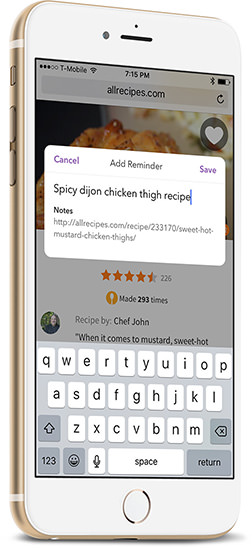
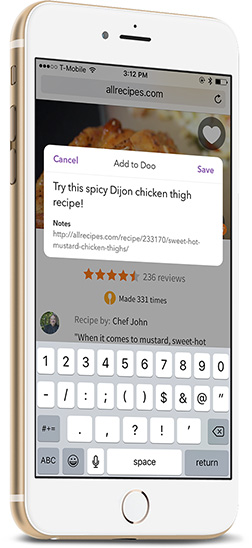
Updating images and copy

diff --git a/index.html b/index.html
@@ -55,8 +55,8 @@
 
     <section id="introduction">
       <div class="content-wrapper">
-        <h1 class="half-width main-heading has-illustration">A smart, simple app for reminders and todos.</h1>
-        <p class="half-width margin main-text">Doo helps you get things done by encouraging small, achievable reminders. Each reminder you create becomes a card. Swipe cards up to complete tasks and power through your todo list.</p>
+        <h1 class="half-width main-heading has-illustration">A smart, simple app for reminders and to&ndash;dos.</h1>
+        <p class="half-width margin main-text">Doo helps you get things done by encouraging small, achievable reminders. Each reminder you create becomes a card. Swipe cards away to mark them completed and power through your to-do list.</p>
 
         <img id="doo-hero" class="lazy-load hidden" src="../images/placeholder.jpg" data-src="../images/doo_hero.jpg" data-src-retina="../images/doo_hero@2x.jpg" alt="Main Doo interface"/>
 
@@ -66,7 +66,7 @@
 
         <div id="simple-by-design" class="half-width">
           <h3 class="detail-header">Simple by design</h3>
-          <p class="detail-description">Doo presents your reminders as a stack of cards, making it easier to focus on one task at a time. It also enables an innovative interface you that can use one-handed.</p>
+          <p class="detail-description">Doo presents your reminders as a stack of cards, making it easier to focus on one task at a time. It also enables an innovative user interface you that can use one-handed.</p>
         </div>
       </div>
     </section>
@@ -100,8 +100,8 @@
             </figure>
 
             <div class="details">
-              <h3 class="detail-header">Send to Doo</h3>
-              <p class="detail-description">Read a saved article or cook a delicious recipe. Add todos from Safari, Twitter, and more with the Doo share extension.</p>
+              <h3 class="detail-header">Add to Doo</h3>
+              <p class="detail-description">Read a saved article or cook a delicious recipe. Add to-dos from Safari, Twitter, and more with the Doo share extension.</p>
             </div>
           </li>
           <li class="complexity-bullet">
@@ -114,7 +114,7 @@
             </figure>
             <div class="details">
               <h3 class="detail-header">Smart suggestions</h3>
-              <p class="detail-description">You&rsquo;ll get a gentle nudge if a task looks too big. You&rsquo;re more likely to finish small, single objective reminders.</p>
+              <p class="detail-description">You&rsquo;ll get a gentle nudge if a task looks too big. You&rsquo;re more likely to finish small, single objective tasks.</p>
             </div>
           </li>
           <li class="customize-bullet">
@@ -137,7 +137,7 @@
     <section id="illustrations">
         <div class="content-wrapper">
           <h2 class="half-width has-illustration"><span class="block">Bold illustrations.</span> A fun way to power through the day.</h2>
-          <p class="half-width margin main-text">Each reminder displays one of eighteen beautiful images, each created for a specific subject. This adds a whole new dimension to your todos and helps you recognize tasks more quickly. It&rsquo;s a small way of making a big productivity boost.</p>
+          <p class="half-width margin main-text">Each reminder displays one of eighteen beautiful images created for a unique task. This adds a whole new dimension to your to&ndash;dos and helps you recognize tasks more quickly. It&rsquo;s a small way of making a big difference.</p>
         
           <div class="image-container">
             <img id="illustration-hero-1" class="lazy-load hidden" src="../images/placeholder.jpg" data-src="../images/illustration_phone_1.jpg" data-src-retina="../images/illustration_phone_1@2x.jpg" alt="">
@@ -152,7 +152,7 @@
             <li>
               <img src="../images/illustration_icon2.jpg" alt="Main Doo interface"/>
               <h3 class="detail-header">More than a list</h3>
-              <p class="detail-description">The colors and textures in each illustration bring warmth to your todos in ways a list never could. Who said reminders had to be boring?</p>
+              <p class="detail-description">The colors and textures in each illustration bring warmth to your to&ndash;dos in ways a list never could. Who said reminders had to be boring?</p>
             </li>
           </ul>
         </div>
@@ -162,7 +162,7 @@
         <div class="content-wrapper">
           <div class="half-width">
             <h2 class="has-illustration"><span class="block">Made for you.</span> And all your devices.</h2>
-            <p class="main-text">Doo can save all your work to <a href="http://www.apple.com/icloud/icloud-drive/" title="Explore iCloud Drive at Apple.com">iCloud Drive</a>. Reminders and todos created on one device are automatically pushed to the others. And if you lose your device, all your data is backed up to the cloud so you can pick up where you left off.</p>
+            <p class="main-text">Doo saves your reminders and to&ndash;dos to <a href="http://www.apple.com/icloud/icloud-drive/" title="Explore iCloud Drive at Apple.com">iCloud Drive</a>. Reminders and to&ndash;dos created on one device are automatically pushed to the others. And if you lose your device, all your data is restored so you can pick up where you left off.</p>
           </div>
         </div>
 
@@ -183,7 +183,7 @@
             <div class="feature-description">
               <img class="icon" src="../images/today_icon.png" alt="">
               <h3>Today Widget</h3>
-              <p>Add Doo to your Notification Center to see your highest priority reminders or to add another.</p>
+              <p>Add Doo to your Notification Center to see your top three reminders or to add another.</p>
             </div>
 
             <img id="extension-image" class="feature-image lazy-load hidden" src="../images/placeholder.jpg" data-src="../images/today_extension_screenshot.jpg" data-src-retina="../images/today_extension_screenshot@2x.jpg" alt="">
@@ -198,7 +198,7 @@
             <div class="feature-description">
               <img class="icon" src="../images/3d_touch_icon.png" alt="">
               <h3>3D Touch Shortcut</h3>
-              <p>Doo takes advantage of the latest technologies. Deep press the app icon to quickly add a reminder.</p>
+              <p>Doo takes advantage of the latest technologies. Deep press the app icon to add a new reminder.</p>
             </div>
 
             <img id="threed-touch-image" class="feature-image lazy-load hidden" src="../images/placeholder.jpg" data-src="../images/3d_touch_screenshot.jpg" data-src-retina="../images/3d_touch_screenshot@2x.jpg" alt="">
@@ -227,7 +227,7 @@
       <section id="conclusion">
         <div class="content-wrapper">
           <h2 class="half-width"><span class="block">Get Doo.</span> Get things done.</h2>
-          <p class="half-width margin main-text">It turns out the perfect todo list isn&rsquo;t a list but something much more. A combination of intelligent features and attention to detail make Doo a smart, fun way to get things done.</p>
+          <p class="half-width margin main-text">It turns out the perfect to&ndash;do list isn&rsquo;t a list but something much more. A combination of intelligent features and attention to detail make Doo a smart, fun way to get things done.</p>
           <a href="#" title="Get Doo on the App Store">Download Now</a>
 
           <img id="conclusion-hero" class="lazy-load hidden" src="../images/placeholder.jpg" data-src="../images/conclusion_hero.jpg" data-src-retina="../images/conclusion_hero@2x.jpg" alt="">
